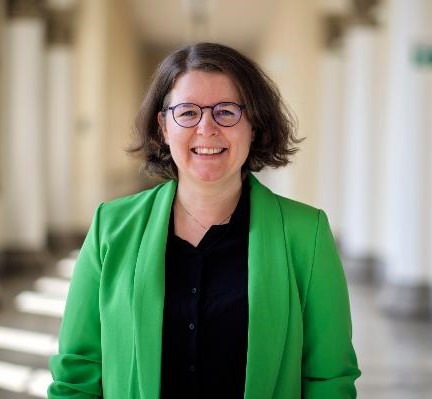
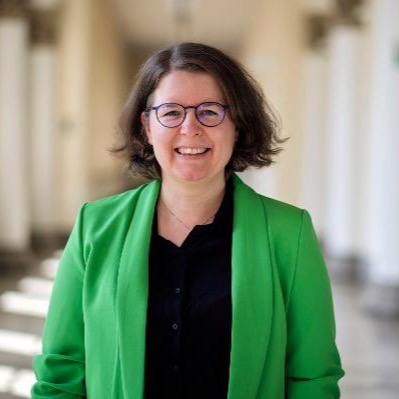
crop photos

diff --git a/css/cayman.css b/css/cayman.css
@@ -126,13 +126,13 @@
 
 * { box-sizing: border-box; }
 
-body { padding: 0; margin: 0; font-family: "Open Sans", "Helvetica Neue", Helvetica, Arial, sans-serif; font-size: 16px; line-height: 1.5; color: #606c71; }
+body { padding: 0; margin: 0; font-family: "Open Sans", "Helvetica Neue", Helvetica, Arial, sans-serif; font-size: 16px; line-height: 1.5; color: #2d3558; }
 
-a { color: #5b64f6; text-decoration: none; }
+a { color: #5d66d6; text-decoration: none; }
 a:hover { text-decoration: underline; }
 
-.btn { display: inline-block; margin-bottom: 1rem; color: rgba(240, 244, 255, 0.92); background-color: rgba(63, 59, 126, 0.26); border-color: rgba(173, 191, 255, 0.45); border-style: solid; border-width: 1px; border-radius: 0.3rem; transition: color 0.2s, background-color 0.2s, border-color 0.2s; }
-.btn:hover { color: #ffffff; text-decoration: none; background-color: rgba(104, 74, 182, 0.38); border-color: rgba(196, 170, 255, 0.62); }
+.btn { display: inline-block; margin-bottom: 1rem; color: rgba(235, 241, 255, 0.96); background-color: rgba(52, 59, 102, 0.34); border-color: rgba(183, 183, 255, 0.5); border-style: solid; border-width: 1px; border-radius: 0.3rem; transition: color 0.2s, background-color 0.2s, border-color 0.2s; }
+.btn:hover { color: #ffffff; text-decoration: none; background-color: rgba(106, 92, 189, 0.46); border-color: rgba(215, 198, 255, 0.72); }
 .btn + .btn { margin-left: 1rem; }
 @media screen and (min-width: 64em) { .btn { padding: 0.75rem 1rem; } }
 @media screen and (min-width: 42em) and (max-width: 84em) { .btn { padding: 0.6rem 0.9rem; font-size: 0.9rem; } }
@@ -160,7 +160,7 @@ a:hover { text-decoration: underline; }
 @media screen and (min-width: 42em) and (max-width: 64em) { .main-content { padding: 2rem 4rem; font-size: 1.1rem; } }
 @media screen and (max-width: 42em) { .main-content { padding: 2rem 1rem; font-size: 1rem; } }
 .main-content img { max-width: 100%; }
-.main-content h1, .main-content h2, .main-content h3, .main-content h4, .main-content h5, .main-content h6 { margin-top: 2rem; margin-bottom: 1rem; font-weight: normal; color: #4e54e8; }
+.main-content h1, .main-content h2, .main-content h3, .main-content h4, .main-content h5, .main-content h6 { margin-top: 2rem; margin-bottom: 1rem; font-weight: normal; color: #4650b8; }
 .main-content p { margin-bottom: 1em; }
 .main-content code { padding: 2px 4px; font-family: Consolas, "Liberation Mono", Menlo, Courier, monospace; font-size: 0.9rem; color: #567482; background-color: #f3f6fa; border-radius: 0.3rem; }
 .main-content pre { padding: 0.8rem; margin-top: 0; margin-bottom: 1rem; font: 1rem Consolas, "Liberation Mono", Menlo, Courier, monospace; color: #567482; word-wrap: normal; background-color: #f3f6fa; border: solid 1px #dce6f0; border-radius: 0.3rem; }
@@ -171,7 +171,7 @@ a:hover { text-decoration: underline; }
 .main-content pre code, .main-content pre tt { display: inline; max-width: initial; padding: 0; margin: 0; overflow: initial; line-height: inherit; word-wrap: normal; background-color: transparent; border: 0; }
 .main-content pre code:before, .main-content pre code:after, .main-content pre tt:before, .main-content pre tt:after { content: normal; }
 .main-content ul, .main-content ol { margin-top: 0; }
-.main-content blockquote { padding: 0 1rem; margin-left: 0; color: #819198; border-left: 0.3rem solid #dce6f0; }
+.main-content blockquote { padding: 0 1rem; margin-left: 0; color: #66708f; border-left: 0.3rem solid #c8d2ff; }
 .main-content blockquote > :first-child { margin-top: 0; }
 .main-content blockquote > :last-child { margin-bottom: 0; }
 .main-content table { display: block; width: 100%; overflow: auto; word-break: normal; word-break: keep-all; -webkit-overflow-scrolling: touch; }
@@ -182,7 +182,7 @@ a:hover { text-decoration: underline; }
 .main-content dl dd { padding: 0; margin-bottom: 1rem; }
 .main-content hr { height: 2px; padding: 0; margin: 1rem 0; background-color: #eff0f1; border: 0; }
 
-.site-footer { padding-top: 2rem; margin-top: 2rem; border-top: solid 1px #eff0f1; }
+.site-footer { padding-top: 2rem; margin-top: 2rem; border-top: solid 1px #d7def7; }
 @media screen and (min-width: 64em) { .site-footer { font-size: 1rem; } }
 @media screen and (min-width: 42em) and (max-width: 64em) { .site-footer { font-size: 1rem; } }
 @media screen and (max-width: 42em) { .site-footer { font-size: 0.9rem; } }
@@ -242,18 +242,27 @@ a:hover { text-decoration: underline; }
   align-items: center;
   gap: 1rem;
   padding: 1rem 1.25rem;
-  border: 1px solid #e2e8f0;
+  border: 1px solid #d7def7;
   border-radius: 0.85rem;
   background-color: #fff;
-  box-shadow: 0 8px 18px -12px rgba(15, 23, 42, 0.4);
+  box-shadow: 0 12px 28px -18px rgba(16, 22, 42, 0.45);
+}
+
+.committee-member__avatar {
+  width: 80px;
+  height: 80px;
+  flex: 0 0 80px;
+  overflow: hidden;
+  border-radius: 50%;
 }
 
 .committee-member__avatar img {
-  width: 80px;
-  height: 80px;
-  border-radius: 50%;
+  display: block;
+  width: 100%;
+  height: 100%;
   object-fit: cover;
-  border: 3px solid #f1f5f9;
+  border: 3px solid #e6ebff;
+  border-radius: 50%;
 }
 
 .committee-member__body {
@@ -266,7 +275,7 @@ a:hover { text-decoration: underline; }
   margin: 0;
   font-size: 1.1rem;
   font-weight: 600;
-  color: #6d5efc;
+  color: #5c63c7;
 }
 
 .committee-member__name a {

diff --git a/assets/css/style.scss b/assets/css/style.scss
@@ -4,12 +4,15 @@
 @import 'jekyll-theme-cayman';
 
 :root {
-  --pandora-indigo: #6d5efc;
-  --pandora-violet: #8b5cf6;
-  --pandora-ink: #dbe7ff;
-  --pandora-body-link: #5b64f6;
-  --pandora-heading: #4e54e8;
-  --pandora-hover: #8a4dff;
+  --pandora-night: #10162a;
+  --pandora-slate: #2d3558;
+  --pandora-indigo: #5c63c7;
+  --pandora-violet: #7e6fe8;
+  --pandora-lavender: #b7b7ff;
+  --pandora-ice: #dbe6ff;
+  --pandora-body-link: #5d66d6;
+  --pandora-heading: #4650b8;
+  --pandora-hover: #8374ee;
 }
 
 .page-header {
@@ -25,6 +28,10 @@
 .main-content h5,
 .main-content h6 {
   color: var(--pandora-heading);
+}
+
+body {
+  color: var(--pandora-slate);
 }
 
 a {
@@ -49,17 +56,34 @@ a:focus {
   color: var(--pandora-hover);
 }
 
+.committee-member {
+  border-color: #d7def7;
+  box-shadow: 0 12px 28px -18px rgba(16, 22, 42, 0.45);
+}
+
+.committee-member__avatar img {
+  border-color: #e6ebff;
+}
+
+.main-content blockquote {
+  border-left-color: #c8d2ff;
+}
+
+.site-footer {
+  border-top-color: #d7def7;
+}
+
 .page-header .btn {
-  color: rgba(240, 244, 255, 0.92);
-  border-color: rgba(173, 191, 255, 0.45);
-  background-color: rgba(63, 59, 126, 0.26);
+  color: rgba(235, 241, 255, 0.96);
+  border-color: rgba(183, 183, 255, 0.5);
+  background-color: rgba(52, 59, 102, 0.34);
 }
 
 .page-header .btn:hover,
 .page-header .btn:focus {
   color: #ffffff;
-  border-color: rgba(196, 170, 255, 0.62);
-  background-color: rgba(104, 74, 182, 0.38);
+  border-color: rgba(215, 198, 255, 0.72);
+  background-color: rgba(106, 92, 189, 0.46);
 }
 
 .project-name,
